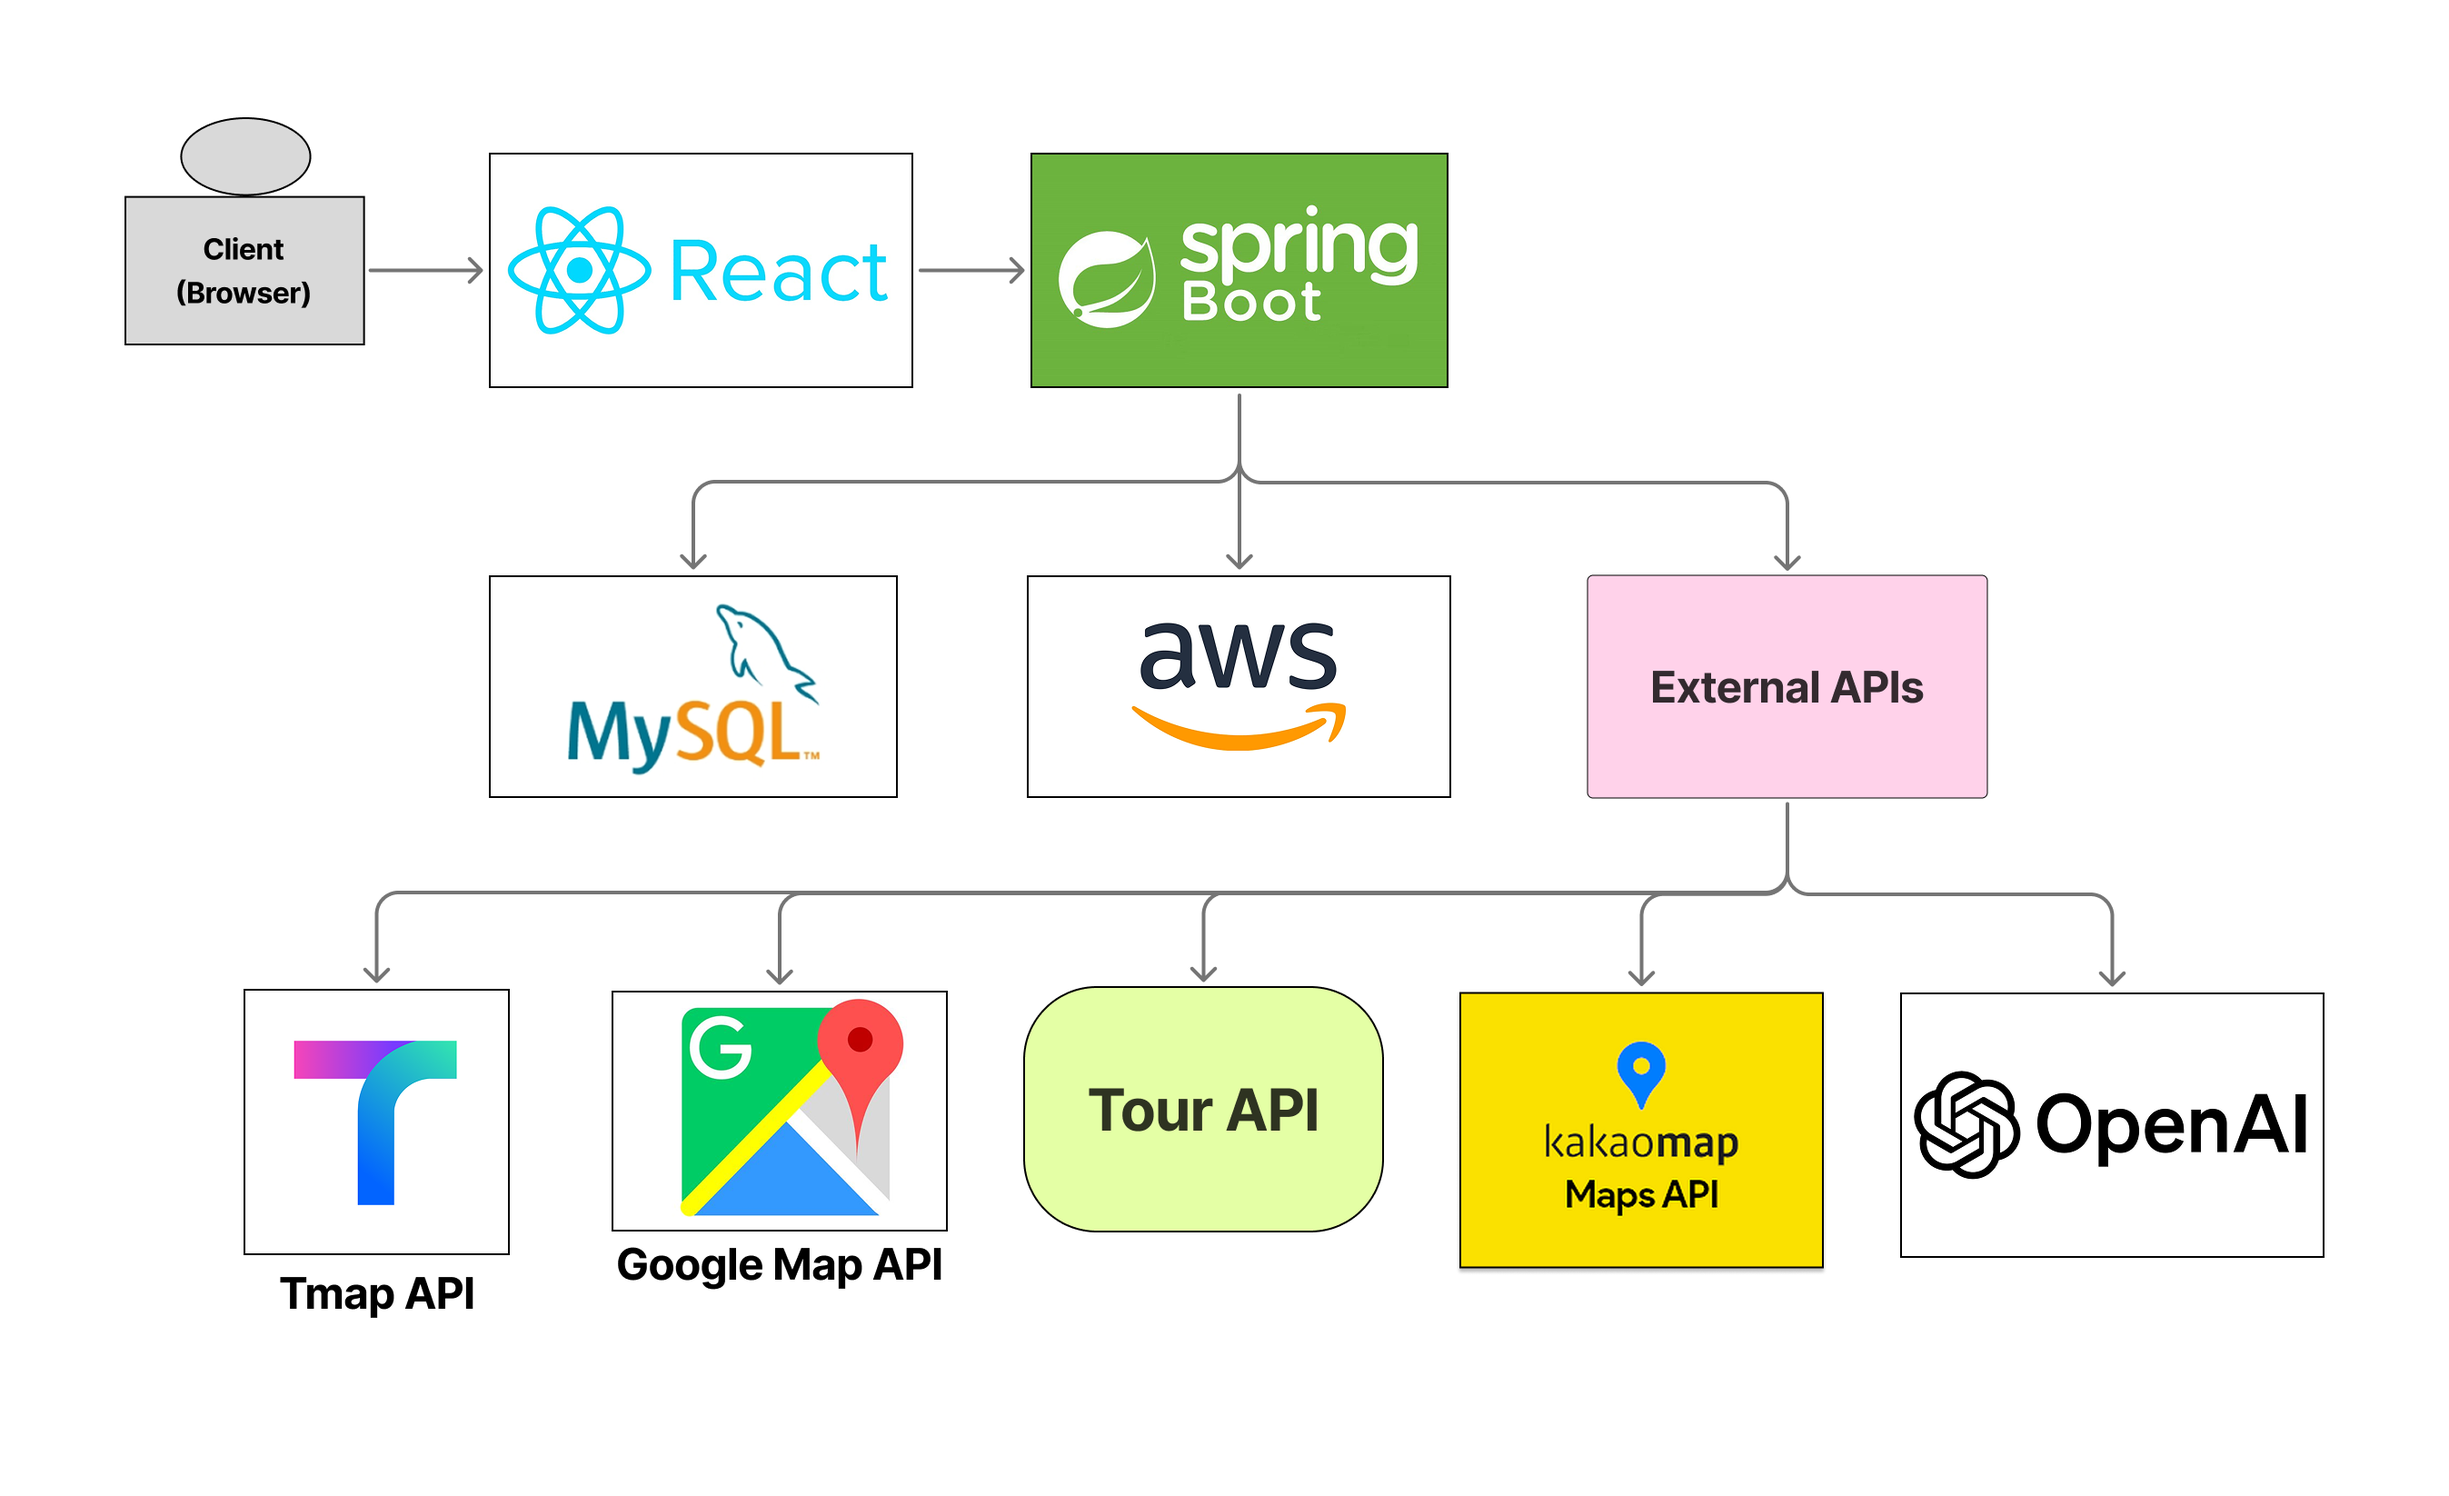
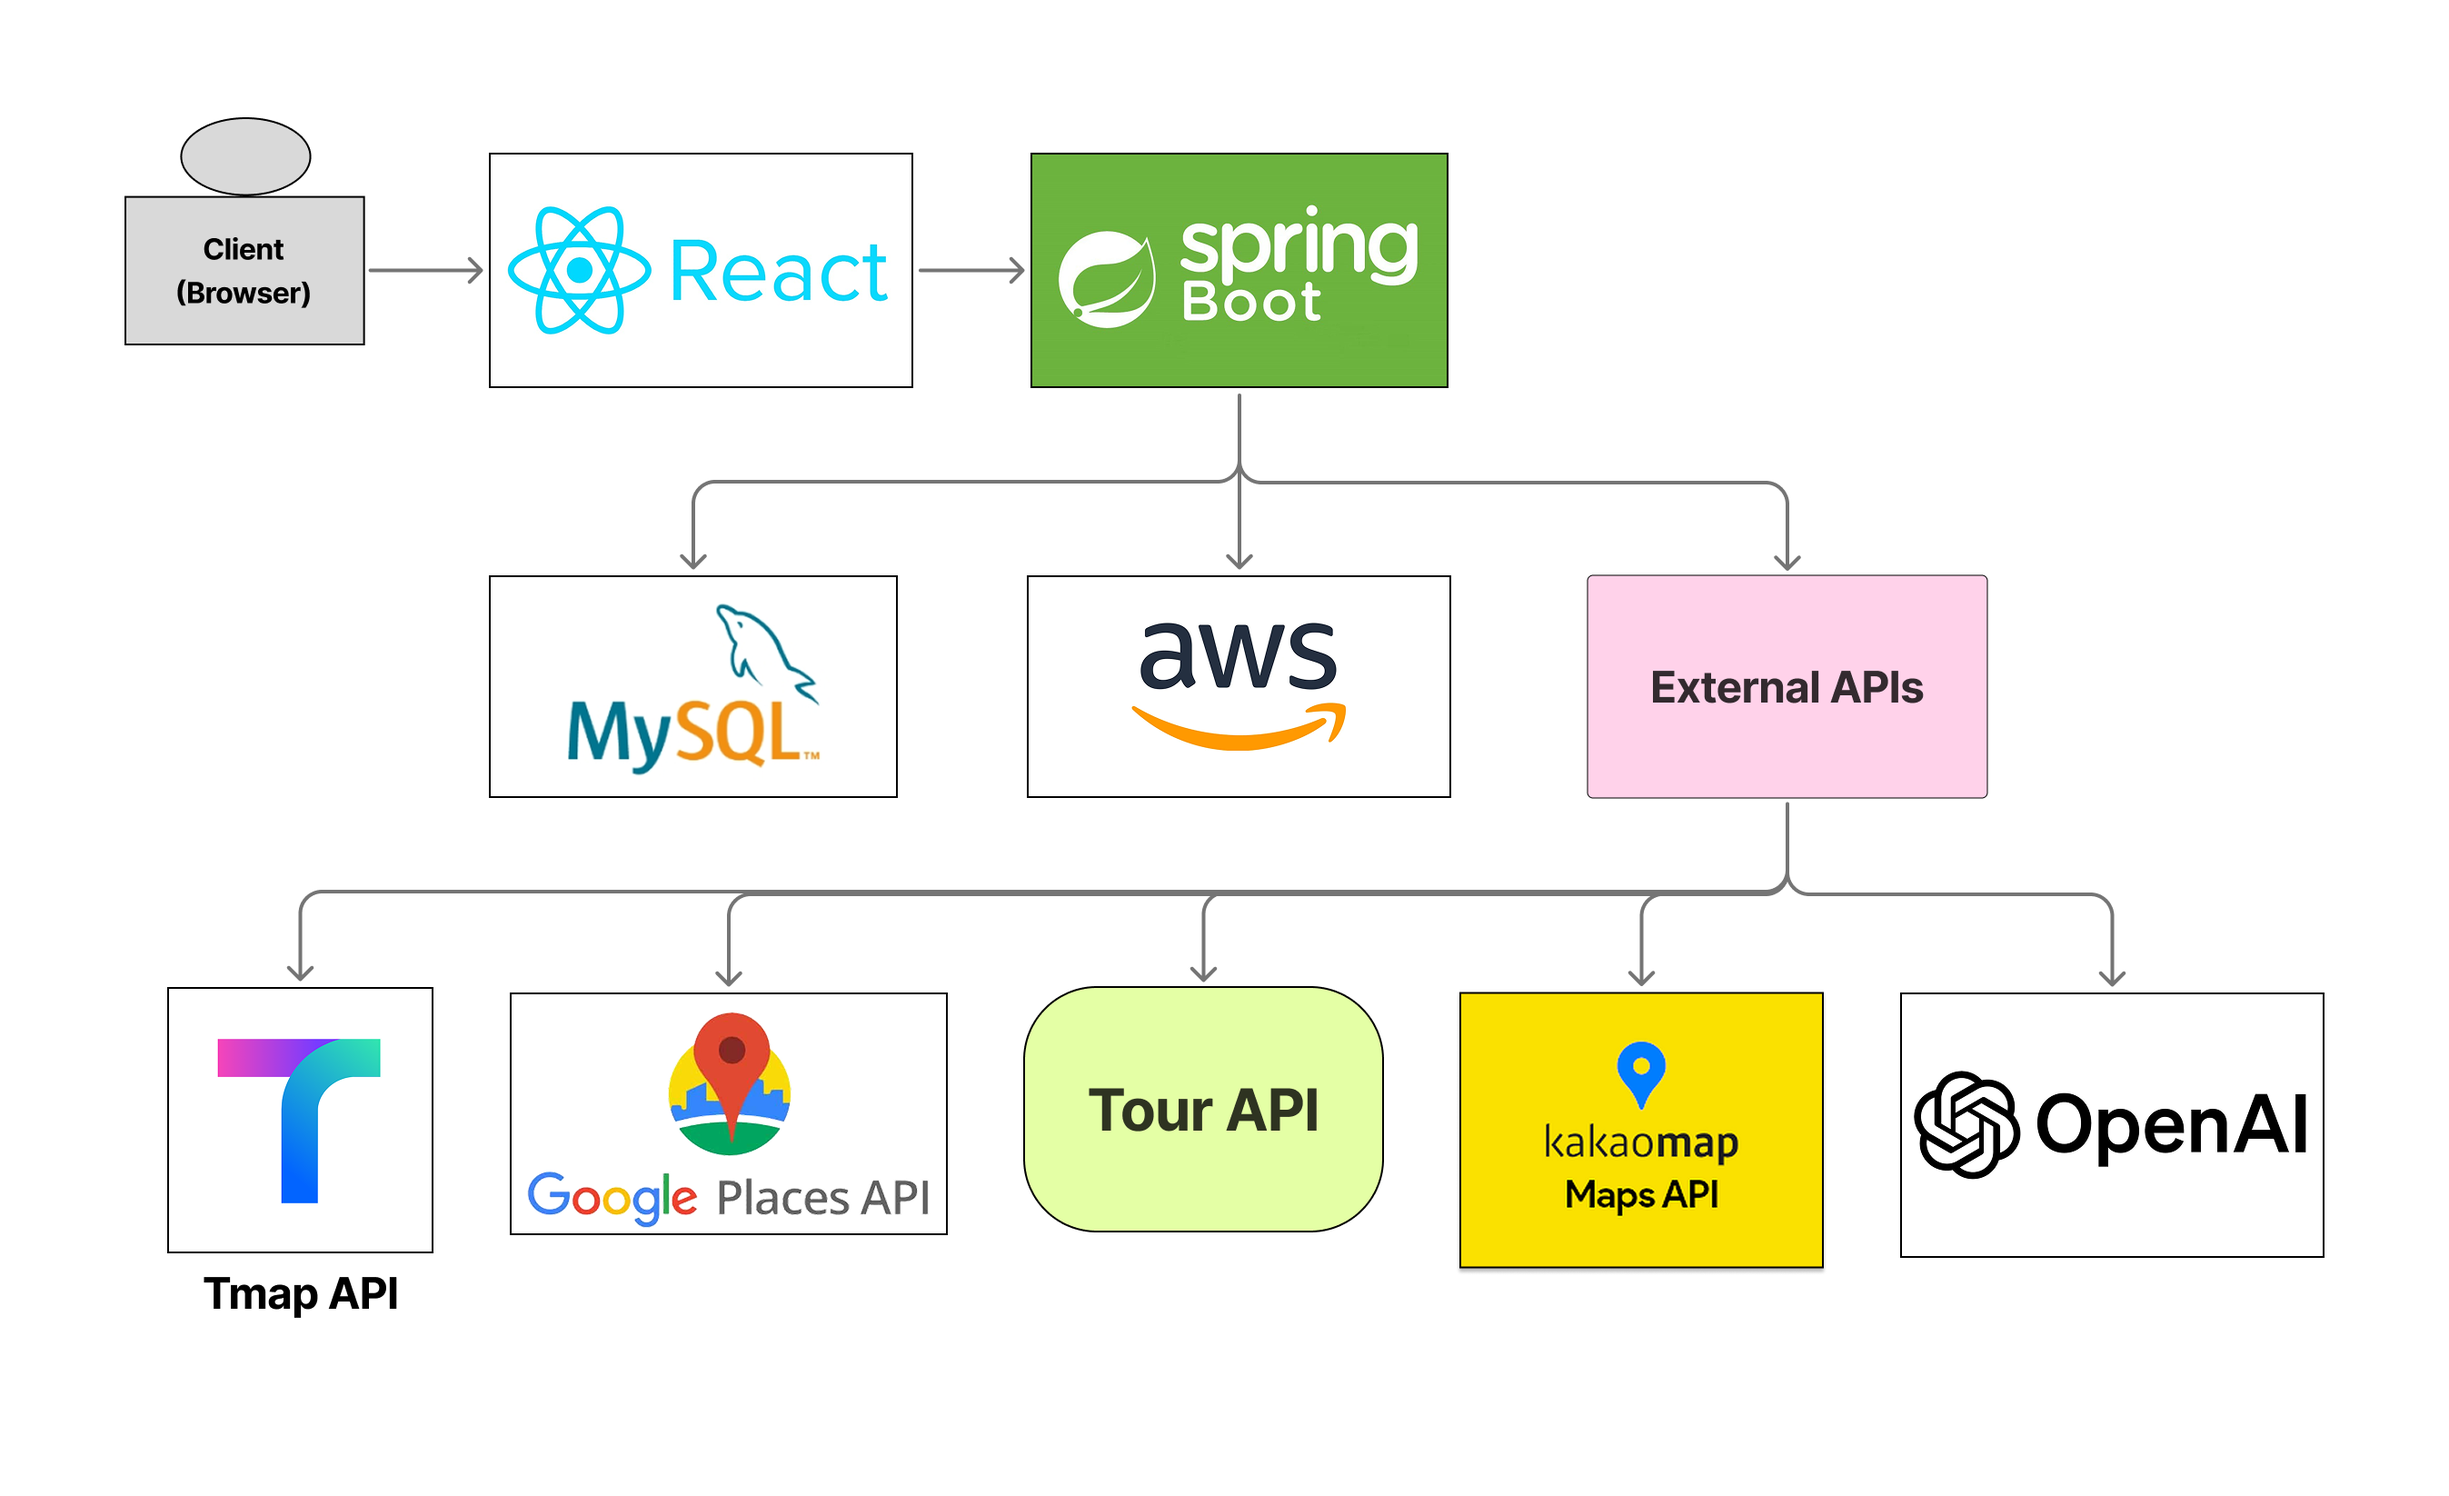
포트폴리오 업데이트: 트러블슈팅 제목 변경, 미팅맵 아키텍처 이미지 교체, 기능 추가

diff --git a/index.html b/index.html
@@ -955,7 +955,7 @@
                 <div class="trouble-item">
                     <div class="trouble-title">
                         <span class="num">03</span>
-                        Supabase + JWT 이중 인증 무한 로딩
+                        Supabase + JWT 이중 인증 충돌
                     </div>
                     <div class="trouble-flow">
                         <div class="trouble-step">
@@ -1056,12 +1056,16 @@
                 <h2 class="section-title">주요 기능</h2>
                 <table class="feature-table">
                     <tr>
-                        <th>중간지점 탐색</th>
-                        <td>최대 4개 출발지를 입력하면 Convex Hull 알고리즘으로 중간 지점을 자동 계산하고, 각 출발지에서의 예상 소요 시간을 표시합니다.</td>
+                        <th>지도 / 중간지점</th>
+                        <td>최대 4개 출발지를 입력하면 중간 지점을 자동 계산합니다. 장소명 자동완성, 현재 위치 기반 검색, 출발지-도착지 검색 등 다양한 방식을 지원합니다.</td>
+                    </tr>
+                    <tr>
+                        <th>경로 표시</th>
+                        <td>TMap API를 활용하여 도보, 자동차, 대중교통 3가지 이동 수단의 길찾기를 지원합니다. 출발지에서 중간지점까지의 경로와 예상 소요 시간을 지도 위에 표시합니다.</td>
                     </tr>
                     <tr>
                         <th>장소 추천</th>
-                        <td>주변 장소를 카테고리별(관광지, 음식점, 카페, 숙박)로 필터링합니다. Kakao Maps, Google Places, Tour API 데이터를 통합하여 평점, 리뷰 등 풍부한 정보를 제공합니다.</td>
+                        <td>주변 장소를 카테고리별(관광지, 음식점, 카페, 숙박)로 필터링합니다. Tour API와 Google Places API 데이터를 통합하여 평점, 리뷰 등 풍부한 정보를 제공합니다.</td>
                     </tr>
                     <tr>
                         <th>AI 스케줄 생성</th>
